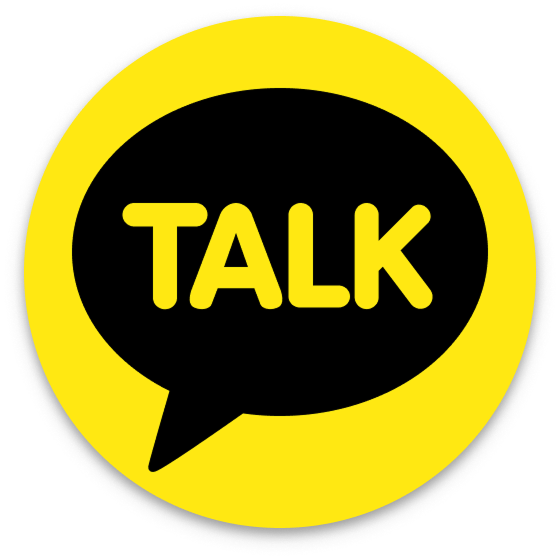
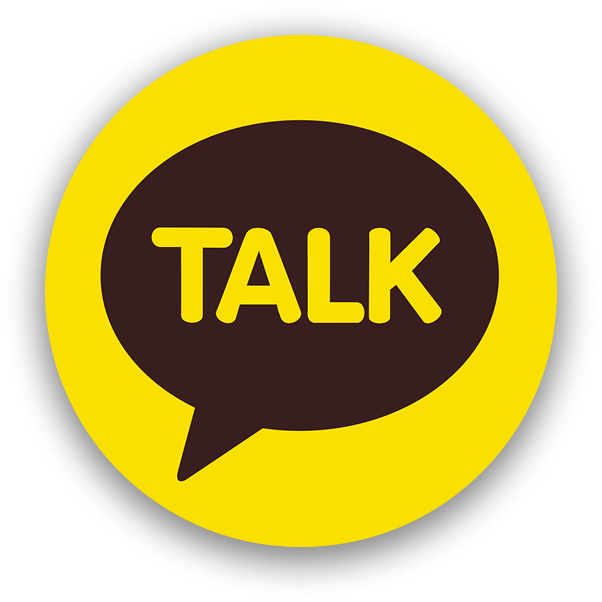
[FEAT] 소셜 아이콘 이미지 추가

diff --git a/src/shared/components/navbar/PromotionNav.tsx b/src/shared/components/navbar/PromotionNav.tsx
@@ -6,9 +6,9 @@ import { IconButton, Flex, Image, Collapsible, Link } from '@chakra-ui/react';
 import { useResponsive } from '@/shared/hooks/useResponsive';
 
 import tiktok from '@/assets/images/social/tiktok.png';
-import blog from '@/assets/images/social/naver.png';
+import blog from '@/assets/images/social/blog2.png';
 import youtube from '@/assets/images/social/youtube.png';
-import kakao from '@/assets/images/social/kakao.png';
+import kakao from '@/assets/images/social/kakao2.png';
 
 const NAV_LINKS = [
   { name: '유튜브', image: youtube, url: '/#' },
@@ -30,7 +30,7 @@ export function PromotionNav() {
 
   return (
     <Collapsible.Root>
-      <Collapsible.Content overflow={isFolded ? "hidden" : "visible"}>
+      <Collapsible.Content overflow="visible">
         <Flex
           mb={2}
           gap={2}
@@ -42,6 +42,7 @@ export function PromotionNav() {
             <Link
               key={link.name}
               href={link.url}
+              outline="none"
               borderRadius="full"
               backgroundColor="transparent"
               transition="all 0.3s ease"
@@ -61,7 +62,7 @@ export function PromotionNav() {
           backgroundColor="orange.600"
           transition="all 0.3s ease"
           boxShadow="0 1px 8px -4px rgba(0,0,0,0.8)"
-          transform={!isFolded ? "rotate(0deg)" : "rotate(45deg)"}
+          transform={isFolded ? "rotate(45deg)" : "rotate(90deg)"}
         >
           <XIcon width={20} height={20} strokeWidth={2.5} />
         </IconButton>

diff --git a/src/shared/components/navbar/ScrollTopNav.tsx b/src/shared/components/navbar/ScrollTopNav.tsx
@@ -13,7 +13,7 @@ export function ScrollTopNav() {
       color="white"
       borderRadius="full"
       onClick={handleClick}
-      backgroundColor="gray.600"
+      backgroundColor="blue.700"
       boxShadow="0 1px 8px -4px rgba(0,0,0,0.8)"
       _hover={{ transform: "scale(1.05)" }}
     >
